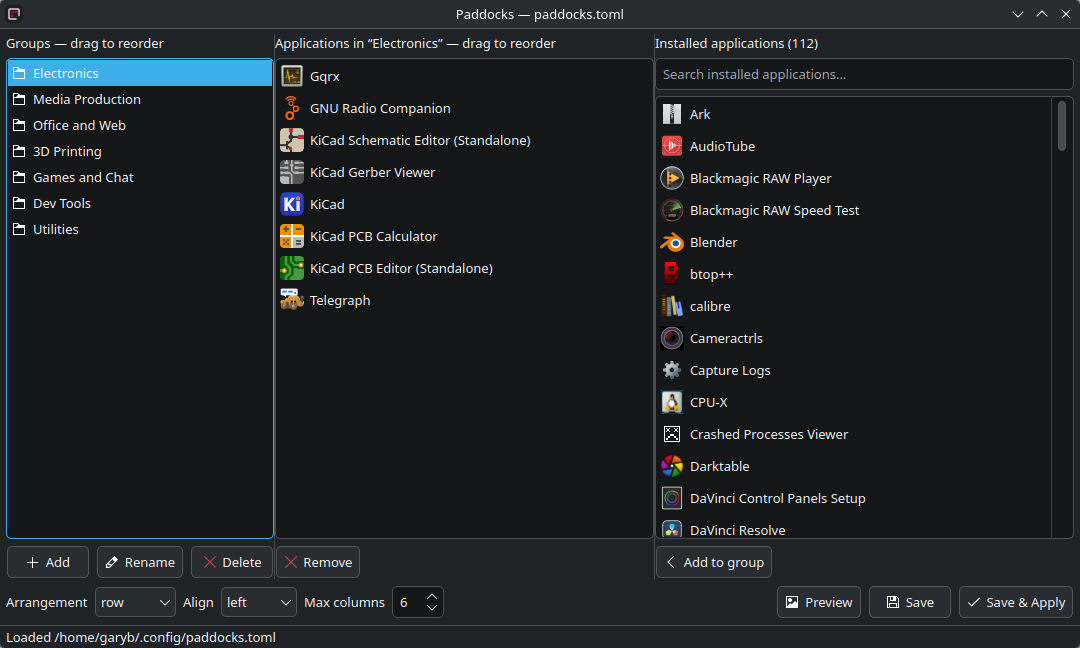
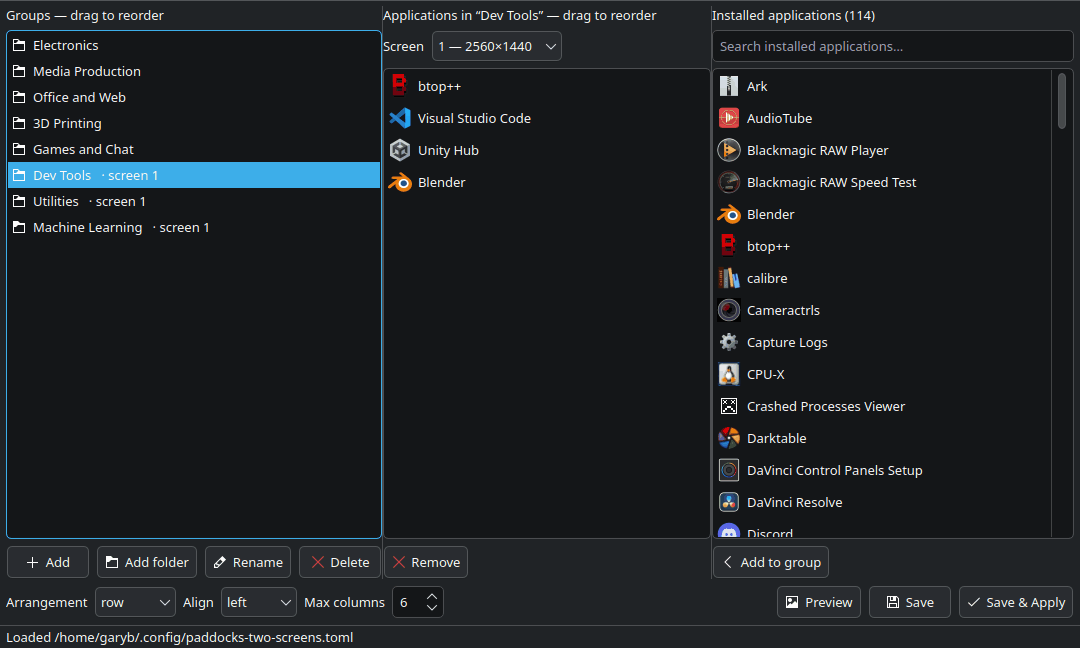
Show the multi-monitor support in the README
Three screen grabs, all of the real thing rather than mockups: eight
groups spread across the 3440x1440 and the 2560x1440, the editor with
its Screen picker, and a crop of the group list marking which groups
are not on the first screen. The editor shot replaces one that predated
the picker.

The Screens section now also says what fails silently underneath --
desktops() not being ordered by screen, ItemGeometries being keyed by
resolution, and removal having to sweep every containment -- since that
is the part nobody can discover from the outside.

Repo tidying alongside: .pytest_cache into .gitignore, and a note at the
top of the discuss.kde.org archive saying it is a snapshot rather than
the live record. Its body still says multi-monitor is unhandled and
points at two reports since retracted, which is what was posted and so
is left as posted.

Claude-Session: https://claude.ai/code/session_01MP3hKiZr8wqNxdLCVfP5Cj

diff --git a/README.md b/README.md
@@ -109,7 +109,7 @@ widget for files and the wrong one for launchers, for the reasons in gotcha #1.
 `paddocks edit` does the same job in a window: groups on the left, the selected
 group's applications in the middle, everything installed on the right.
 
-![The editor: groups, group contents, and the installed application list](docs/editor.png)
+![The editor: groups on the left, the selected group's applications and its screen in the middle, everything installed on the right](docs/editor.png)
 
 Drag within either list to reorder, drag a group up or down to change where it
 lands on screen, double-click an application to add or remove it. **Add folder**
@@ -130,6 +130,11 @@ comments are a dependency nothing else here needs.
 
 ### Screens
 
+Groups can be spread across monitors — five here on a 3440×1440 ultrawide, three
+on a 2560×1440 beside it:
+
+![Eight groups across two monitors: five on the ultrawide, three on the second screen](docs/two-screens.png)
+
 A group goes on Plasma's first screen unless it says otherwise:
 
 ```toml
@@ -139,9 +144,15 @@ screen = 1
 apps = ["code", "org.kde.konsole"]
 ```
 
-`paddocks edit` has the same choice as a picker on each group, which saves
-looking the index up. The index is Plasma's own numbering, which follows neither
-the physical arrangement nor which monitor you think of as primary. Ask:
+The editor has the same choice as a picker on each group, which saves looking the
+index up. Groups that are not on the first screen say so in the list, so you can
+see where everything is without clicking through them:
+
+![The editor's group list marking three groups as being on screen 1, and the Screen picker showing "1 — 2560×1440"](docs/screen-picker.png)
+
+The index is Plasma's own numbering, which follows neither the physical
+arrangement nor which monitor you think of as primary — the picker spells out
+each one's size for that reason. On the command line, ask:
 
 ```
 $ paddocks screens
@@ -149,15 +160,29 @@ screen 0    3440x1440  containment 1
 screen 1    2560x1440  containment 247
 ```
 
-A group configured for a monitor that is not plugged in keeps it — in the config
-and in the editor, which shows it as *not connected* rather than resetting it.
-Unplugging a monitor is not a decision to move what was on it.
+**A group configured for a monitor that is not plugged in keeps it** — in the
+config, and in the editor, which shows it as *not connected* rather than
+resetting it. Unplugging a monitor is not a decision to move what was on it, and
+silently rewriting the group to screen 0 would make that decision permanent on
+the next save.
 
 Each screen is solved as its own layout against its own size, so groups wrap
-where that screen runs out rather than where the widest one does. Positions are
-written per containment under an `ItemGeometries-<W>x<H>` key naming that
-screen's resolution — a key naming any other size is not read at all, which is
-why the containment has to be matched to the screen rather than assumed.
+where that screen runs out rather than where the widest one does, and the
+coordinates start again from that screen's own top-left corner.
+
+Underneath, this is three things that each fail silently if you get them wrong:
+
+* **`desktops()` is not ordered by screen**, and holds one containment per screen
+  *per activity* — only the ones on the current activity report a real `screen`.
+  Indexing that list is how widgets end up on the wrong monitor. Match on the
+  `screen` property instead.
+* **`ItemGeometries` is keyed by resolution.** Positions for a 2560×1440 screen
+  have to go under `ItemGeometries-2560x1440` in *that screen's* containment. A
+  key naming any other size is not read at all — the widgets are created, and
+  then sit wherever the shell auto-placed them.
+* **Removing a widget means sweeping every containment.** A widget on the second
+  monitor is not in the first containment's `widgetIds`, so looking only there
+  reports it as removed without removing it.
 
 ### App ids
 

diff --git a/docs/discuss-kde-post.md b/docs/discuss-kde-post.md
@@ -16,6 +16,12 @@ The account was auto-held first — Discourse caps trust-level-0 users at two li
 per post and this one had eight, all but one of them to KDE's own Bugzilla. A
 moderator approved it.
 
+**Out of date on purpose.** This is the archive of what was posted, so the body
+below is left alone even where it has since been overtaken. As of 2026-08-21:
+multi-monitor *is* handled, and two of the six reports it points at — 524245 and
+524246 — have been retracted and closed INVALID by their own reporter after
+testing. `plasma-bugs.md` is the live record; this file is a snapshot.
+
 **Defect in post #1, corrected in post #2:** it went up without backticks around
 `ItemGeometries-<W>x<H>`, so Discourse stripped `<W>` and `<H>` as unknown HTML
 tags and the line renders as `ItemGeometries-x`. Editing was not an option — at
